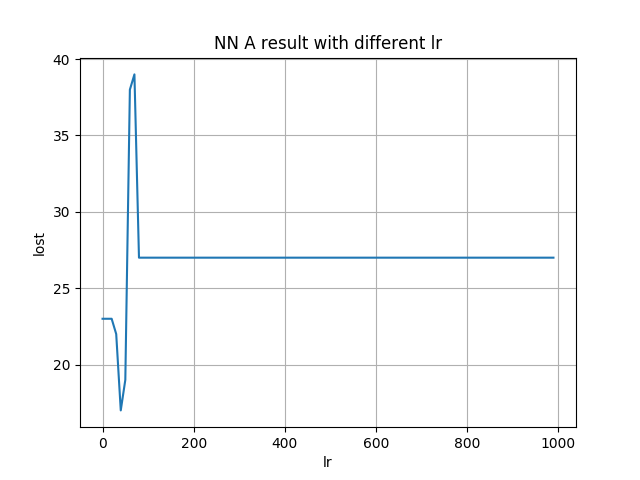
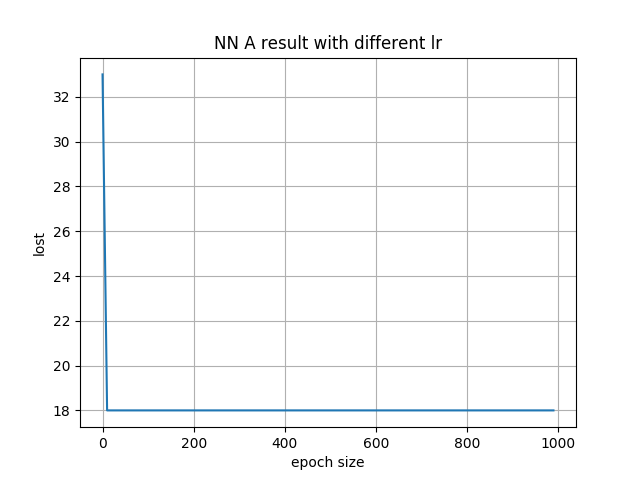
part A new statistics

diff --git a/A.py b/A.py
@@ -29,12 +29,12 @@ X, y_array = get_file_array('./data/data.csv')
 W = [np.random.rand(),np.random.rand()]
 b = np.random.rand()
 
-
-train = 100
-test = 100
-n_epoch = 50
 lr = 0.01
-def A_training():
+train = 150
+test = 50
+
+
+def A_training(n_epoch):
     for i in range(n_epoch):
         grad = np.zeros([len(W)])
         for r in range(len(W)):
@@ -48,14 +48,14 @@ def A_training():
     lost = 0
     for i in range(train, train + test):
         y = calculate_y(W,X[i],b)
-        lost += 1 if np.abs(y - y_array[i]) > 0.5 else 0
+        lost += 1 if np.abs(y - y_array[i]) > 0.2 else 0
     return lost
-epoch_array = [i*0.01 for i in range(100)]
-result = [A_training() for item in epoch_array]
+epoch_array = [i*3 for i in range(100)]
+result = [A_training(item) for item in epoch_array]
 fig, ax = plt.subplots()
 ax.plot(epoch_array, result)
-ax.set(xlabel='lr', ylabel='lost', title='NN A result with different lr')
+ax.set(xlabel='epoch size', ylabel='lost', title='NN A result with different lr')
 ax.grid()
-fig.savefig('A_train-100_test-100')
+fig.savefig('A_epoch(3-300)')
 plt.show()
 print(np.mean(result))
